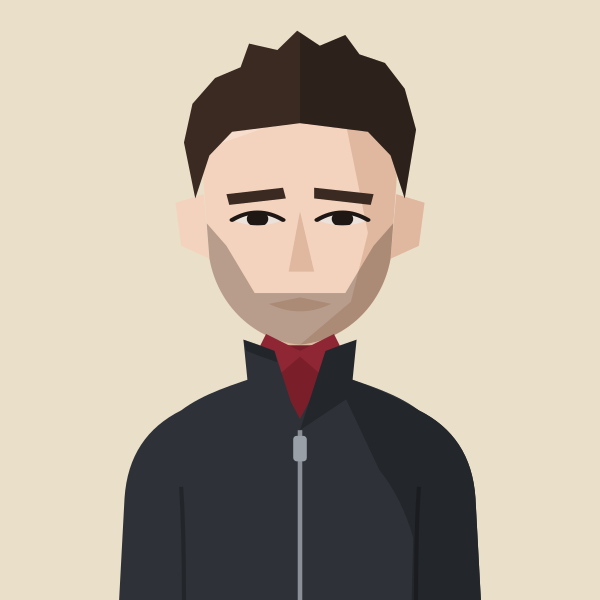
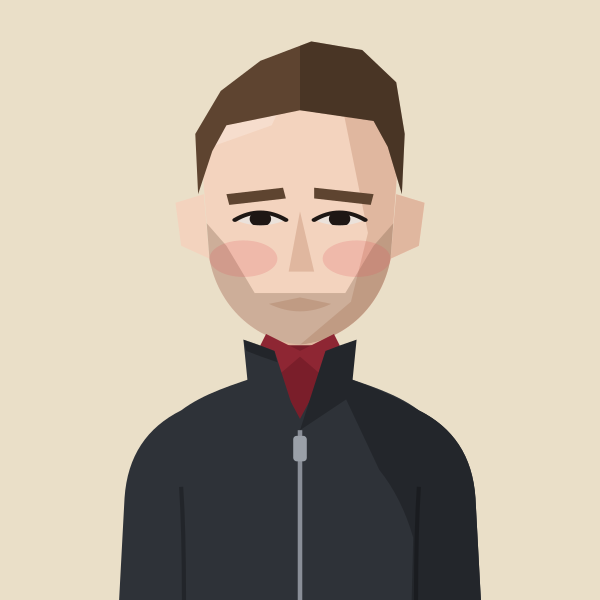
Redraw Steve Gardner: mid-brown quiff, light stubble, rosy, dark half-zip
Claude-Session: https://claude.ai/code/session_01MgmDWhFqnSSnP4iBLKXUZC

Changed region(s): [[0.3, 0.03, 0.69, 0.33], [0.51, 0.3, 0.66, 0.48], [0.33, 0.3, 0.48, 0.48]]

diff --git a/files/index.html b/files/index.html
@@ -686,7 +686,7 @@ return m;})();
 const portraitFile=(name,club)=>{const k=normalizeNameForCompare(name||'').replace(/\s*\(([^)]*)\)$/,(m,c)=>CLUBS[c.toUpperCase()]?'':m);const a=PORTRAITS[k];if(a&&a.club===club)return a.file;const b=PORTRAITS[k+'@'+club];return b?b.file:null;};
 // Athlete header figure: superstar portrait if we have one, else a grey runner in the club vest, else the plain vest icon
 // Changes whenever any portrait changes (set by tools/build_og.py), so browsers fetch fresh images instead of old cached ones
-const PORTRAIT_V='ee15dd43';const PORTRAIT_WOMEN='abbey-brooke,abbie-bulbulian,adele-prince,aimee-hargreaves,aisling-ahern,alex-brown,alex-gandee,alex-marginean,alex-miller,alexa-parker,alexandra-barbour,alice-braham,alice-bridger-morales,alice-crane,alice-martin,alice-reed,alice-smith,alison-purnell,alison-thomson,amy-clements,andrea-barber,anika-schwarze-chintapatla,anna-garnier,anna-garnier-hw,anna-sharp,annabel-hobday,annabelle-hadlow,anne-hegvold,annmarie-seymour,ava-mcandie,becky-briggs,bethan-goddard,bethanie-murray,bethany-brown,betsy-griffiths,billie-mcclosky,camilla-barden,caoimhe-nic-fhogartaigh,carolyne-baxter,catherine-bryson,catherine-eastham,catherine-kandie,cathy-ansell,charlotte-griffiths,chloe-beckett,chloe-tighe,chrissie-wellington,claire-grima,clara-pettit,clare-elms,clare-pauzers,dillan-quinn,dorchie-cockerell,eilidh-hide,elinor-skinner,eliza-grant,elizabeth-apsley,elizabeth-stavreski,ella-fennelly,ella-king-powrie,ella-may-hards,ella-newton,ellie-brown,ellie-freeden,eloise-bull,emilie-arnoux,emily-barrett,emily-bradley,emily-lowery,emily-robbins,emma-gordon,emma-howsham,emma-lord,emma-rowland,estle-viljoen,evie-warren,felicity-cole,felicity-harrison,felicity-hayward,fi-maddocks,fiona-de-mauny,florence-wiggins,gabby-collison,gabriel-reynolds,gemma-newport,genevieve-blanch,georgia-curry,georgie-bruinvels,georgie-fenn,georgie-furze,georgie-grgec,gina-galbraith,grace-leyland,grace-richardson,hannah-edwards,hannah-english,heather-statham,heather-statham-cc,helena-corbin,helena-keenan,holly-nixon,holly-pan,imogen-mackie,imogen-wolsey,iona-cousland,isabel-bradley,isabel-brinsden,isabelle-pickett,isobel-hodder,jennifer-nandi,jennifer-smith,jess-reed,jess-saunders,jess-winfield,jessica-davies,jessica-lowe,jodie-favell,josephine-rhodes,julia-bleasdale,julia-wedmore,juliet-hodder,jurgita-levertaviciute,justine-lynch,karen-fenner,karen-xiang,karina-box,kate-axford,kate-williams,kathy-sharpe,katie-ellen-french,katie-good,katie-snowden,katy-hedgethorne,kitty-shepherd-cross,kristina-popadich,lara-bromilow,lara-mangan,laura-goodson,laura-miles,lauren-major,lea-adamson,lily-newton,lisa-bailey,lisa-thomas,lisa-thomas-hw,lizzie-goldie-scot,louise-cooper,lucy-jones,lucy-macalister,lucy-peters,lydia-blackmore,lydia-gallyer-barnett,maddie-mastrolonardo,maddy-whitman,maeve-kenny,margaret-coogan,martina-conner,mary-james,mary-setyabule,matilde-lomba,megan-gildea,mhairi-hall,mimi-corden-lloyd,molly-oconnor,molly-smith,monika-gajek,naomi-lenane,natalie-beadle,natalie-seymour,natasha-lodge,niamh-thompson,nicky-hayes,nicola-cartlidge,nicola-douglas,nikki-sturzaker,olivia-papaioannou,olivia-stillman,orna-mcginley,pamela-mchutchon,patricia-walker,patrizia-gnoato,penny-oliver,rachel-brown,rebecca-barrow,rebekah-edgar,ruby-carter,ruby-whyte-wilding,ruby-woolfe,sally-urquhart,sam-whiting,samantha-munday,sarah-astin,sarah-dewhirst,sarah-grover,sarah-hanley,sarah-holt,sarah-murphy,sarah-palmer,sarah-palmer-ran,sarah-riceman,sarah-young,saron-haileselase,serena-carter,sophie-cowper,sophie-harris,sophie-hicks,sophie-tooley,stacey-ward,steph-hewitt,steph-mccall,steph-mccall-cc,steph-mccall-slh,steph-mitchell,suzanne-swaine,suze-spalding,suzie-harvey,suzy-whatmough,teresa-murphy,tilly-heaton,tilly-heaton-bel,vic-cartwright,vicky-clarke,victoria-barthelmess,victoria-buck,vikki-filsell,zoe-macdonald,zuzana-nemeckova';const PORTRAIT_MEN='aaron-wilson,abdulla-elsadig,adam-leane,adrian-major,adrien-royer,alan-black,alan-mead,alex-brecker,alex-bruce-littlewood,alex-gutteridge,alex-harris,alex-howard,alex-janiaud,alex-lee,alex-lennon,alex-mills,alex-milne,alex-morales,alex-robinson,alex-yee,alexander-marks,amittai-ben-israel,andrew-cumine,andrew-green,andrew-penney,andrew-perfect,andrew-simms,andrew-warburton,andrius-jaksevicius,andy-coley-maud,andy-coley-maud-cc,andy-fyfe,andy-north,andy-paton,andy-weir,angus-butler,angus-lamb,anisse-ismaili,arlo-ludewick,arne-dumez,arthur-peel,ashley-goncalves,barnaby-day,barry-collins,barry-sawyer,ben-clarke,ben-harding,ben-hurley,ben-ireland,ben-millar,ben-paviour,ben-pearce,ben-racle,ben-revill,ben-reynolds,ben-scott,ben-toomer,benedict-whitby,benjamin-hilson,bernie-ford,bill-kerr,bill-weller,bill-weller-wal,bob-harrison,bob-holt,bob-lunnon,bob-rayman,bob-smith,bradley-courtney-pinn,brandon-dewar,brian-gorman,brian-wilder,caleb-hathaway,callum-stewart,cameron-dockerill,cameron-reilly,carl-delaney,charles-herrington,charlie-dabbs,charlie-dickinson,charlie-eastaugh,charlie-manning,charlie-pickett,charlie-rogers,charlie-sandison,charlie-walker,charlie-wyllie,che-compton,chris-busaileh,chris-busaileh-hhh,chris-greenwood,chris-keavey,chris-moss,chris-steer,chris-threadgold,chris-warren,christian-lee,christopher-parker,clive-gilby,clive-shippen,colin-high,colin-pearson,conall-mcnally,conall-whelan,craig-ruddy,dame-dibaba,dan-cliffe,dan-pettitt,daniel-shaw,daniel-wolff,dave-beard,dave-beaver,dave-glassborow,dave-holt,dave-taylor,david-anderson,david-bowers,david-grima,david-north,david-ogden,david-symons,david-walsh,david-williams,deron-fagan,dick-piotrowski,dimos-evangelidis,dominic-kiralyfi,don-anderson,don-faircloth,don-maclean,doug-maughan,duncan-rimmer,dylan-evans,dylan-mitchard,ed-brewer,ed-catmur,ed-gibson,ed-mallett,eddie-herridge,eddie-jodrell,eddie-rolls,edward-chuck,eoin-brady,eoin-molloy,ethan-mccolgan,falilou-kebe,findlay-dyer,finn-johnson,fintan-pearce,frank-tickner,frank-ward,fred-paget,fred-slemeck,freddie-hessian,garret-lee,gary-ribbons,gary-ribbons-ee,gary-staines,gavin-eccles,geoff-biscoe,geoff-jerwood,geoff-north,george-cotton,george-gathercole,george-jackson,george-loxton,george-mallett,george-ogden,gerry-adams,gerry-north,glen-keegan,gordon-pearce,graham-macky,harrison-hayman,harry-guttridge,hector-revill,henry-hart,henry-silverstein,hugo-hewitt,ian-acreman,ian-crowe-wright,ian-ellwood,ian-harkness,indy-barnes,isaac-lutaya,isaac-parker,jack-brotchie,jack-dickson,jack-dormer,jack-hampshire,jack-harrison,jack-hobden,jack-kavanagh,jack-millar,jack-ramm,jack-woods,jacob-brockmann,jake-simmonds,james-bartram,james-blackwood,james-bowler,james-estall,james-ewing,james-fox,james-hancock,james-harvey,james-hoad,james-kelly,james-mcmullan,james-murray,james-nutt,james-preston,james-roberts,james-stockings,james-ward,james-wootton,jamie-crowe,jamie-parkinson,jared-martin,jean-paul-wright,jeff-cunningham,jeremy-dempsey,jermaine-mays,jerry-watson,jim-allchin,jim-rimmer,joe-english,joe-hartley,john-baker,john-bicourt,john-bromley,john-davies,john-dear,john-foss,john-foxall,john-gilbert,john-gladwin,john-hutchins,john-kendall,john-kimaiyo,john-lee,john-lethbridge,john-mather,john-moore,john-roberts,john-sanderson,john-stow,john-sullivan,john-thresher,jon-hobbs,jon-pepper,jon-pepper-slh,jon-phillips,jon-solly,jonathan-cocker,jonathan-collier,jonathan-cornish,jonathan-ratcliffe,jonathan-tipper,jonathon-blackledge,jonny-neville,jonny-scott,jordan-weaver,josh-mitchell,josh-snow,josh-trigwell,jules-gevers,junior-galley,justin-chaston,justin-reid,kassa-tadesse,keith-newton,kevin-nash,kevin-quinn,kevin-sturman,kieran-barnes,kieran-white,knut-hegvold,knut-hegvold-bel,larry-ryan,lawrence-avery,lee-lintern,lewis-lloyd,liam-burthem,lionel-mann,lloyd-kempson,luke-caldwell,mack-downie,malachi-byansi,marcello-bizio,marcelo-fortes,marco-mazzotta,mark-anderson,mark-miles,mark-sinclair,mark-tennyson,mark-waller,martin-dent,martin-lake,martin-lewington,martin-shore,mathew-speed,matt-chaston,matt-jones,matt-wood,matthew-edgar,matthew-houchell,matthew-thomas,matthew-varley,max-bloor,max-heyden,max-milarvie,max-nicholls,michael-baker,michael-mccarthy,mick-woods,mike-beevor,mike-boyle,mike-cummings,mike-farmery,mike-fuller,mike-hayes,mike-kortenray,mike-nouch,mohammed-ismail,monty-hudson,morgan-roberts,nathan-visick,neil-chisholm,neil-phillips,neil-speaight,neil-wilson,nic-lukies,nick-acfield,nick-altmann,nick-bester,nick-bester-hhh,nick-buckle,nick-bundle,nick-goolab,nick-lightfoot,nick-morris,nick-torry,noah-fernandez,norman-stairs,oli-carrington,oliver-carrington,oliver-fox,oliver-reynolds,oliver-young,ollie-foote,ollie-garrod,olly-buck,owen-hind,paddy-roddy,pancho-panchev,paskar-owor,pat-newell,patrick-mcdougall,paul-calver,paul-cheetham,paul-freary,paul-magner,paul-pollock,pete-carton,pete-gardner,peter-clarke,peter-giles,peter-giles-thh,peter-lighting,phil-carstairs,phil-sanders,phil-sesemann,phil-swinburn,phil-wicks,phil-woodford-smith,raj-paranandi,ralph-street,ranjit-bhatia,ray-foley,reece-edwards,rhys-boorman,rian-mccawley,richard-ashe,richard-giles,richard-henderson,richard-langley,richard-mcdowell,richard-ollington,richard-partridge,richard-sun,richard-ward,rob-armstrong,rob-kelly,rob-tuer,robert-elphick,robert-laing,robert-norville,robert-peacock,robert-sesemann,robin-boon,robin-hudson,roger-alsop,roger-alsop-bel,ron-clark,ron-linstead,ronan-tanguy,rory-mcmahon,rory-orsborn,ross-christie,rowan-board,rowan-crichton,russell-dessaix-chin,ryan-hickey,ryan-mccallister,sam-bramwell,sam-charlton,sam-gebreselassie,sam-peters,sam-sommerville,sam-tyas,samuel-dames,samuel-wilcock,sean-cordon,sebastian-anthony,simon-baines,simon-coombes,simon-coppard,simon-holmes,simon-rayner,simon-rayner-hw,simon-wade,simon-wade-hhh,simon-waterhouse,simon-williams,simon-wurr,sonny-nicoll,spencer-barden,stephen-mcleod,stephen-sharp,steve-gardner,steve-jones,steve-smythe,steve-smythe-hhh,stuart-beaney,stuart-major,stuart-major-thh,stuart-mccallum,stuart-paton,terry-booth,thomas-dugre,thomas-gandee,thomas-gardner,thomas-renshaw,tim-alexander,tim-eglen,tim-lawrence,tim-watson,toby-cooke,toby-fletcher,tom-austin,tom-cheetham,tom-conlon,tom-davies,tom-gifford,tom-jervis,tom-lole,tom-south,tom-thornley,tommy-taylor,tony-binda,tony-fairclough,tony-harran,trevor-hart,valdis-pauzers,valentin-rigori,vic-maughan,will-cockerell,will-lewis,will-marshall,will-scott,will-stockley,william-gardner,yacin-yusuf,zach-nolan';
+const PORTRAIT_V='62f463a3';const PORTRAIT_WOMEN='abbey-brooke,abbie-bulbulian,adele-prince,aimee-hargreaves,aisling-ahern,alex-brown,alex-gandee,alex-marginean,alex-miller,alexa-parker,alexandra-barbour,alice-braham,alice-bridger-morales,alice-crane,alice-martin,alice-reed,alice-smith,alison-purnell,alison-thomson,amy-clements,andrea-barber,anika-schwarze-chintapatla,anna-garnier,anna-garnier-hw,anna-sharp,annabel-hobday,annabelle-hadlow,anne-hegvold,annmarie-seymour,ava-mcandie,becky-briggs,bethan-goddard,bethanie-murray,bethany-brown,betsy-griffiths,billie-mcclosky,camilla-barden,caoimhe-nic-fhogartaigh,carolyne-baxter,catherine-bryson,catherine-eastham,catherine-kandie,cathy-ansell,charlotte-griffiths,chloe-beckett,chloe-tighe,chrissie-wellington,claire-grima,clara-pettit,clare-elms,clare-pauzers,dillan-quinn,dorchie-cockerell,eilidh-hide,elinor-skinner,eliza-grant,elizabeth-apsley,elizabeth-stavreski,ella-fennelly,ella-king-powrie,ella-may-hards,ella-newton,ellie-brown,ellie-freeden,eloise-bull,emilie-arnoux,emily-barrett,emily-bradley,emily-lowery,emily-robbins,emma-gordon,emma-howsham,emma-lord,emma-rowland,estle-viljoen,evie-warren,felicity-cole,felicity-harrison,felicity-hayward,fi-maddocks,fiona-de-mauny,florence-wiggins,gabby-collison,gabriel-reynolds,gemma-newport,genevieve-blanch,georgia-curry,georgie-bruinvels,georgie-fenn,georgie-furze,georgie-grgec,gina-galbraith,grace-leyland,grace-richardson,hannah-edwards,hannah-english,heather-statham,heather-statham-cc,helena-corbin,helena-keenan,holly-nixon,holly-pan,imogen-mackie,imogen-wolsey,iona-cousland,isabel-bradley,isabel-brinsden,isabelle-pickett,isobel-hodder,jennifer-nandi,jennifer-smith,jess-reed,jess-saunders,jess-winfield,jessica-davies,jessica-lowe,jodie-favell,josephine-rhodes,julia-bleasdale,julia-wedmore,juliet-hodder,jurgita-levertaviciute,justine-lynch,karen-fenner,karen-xiang,karina-box,kate-axford,kate-williams,kathy-sharpe,katie-ellen-french,katie-good,katie-snowden,katy-hedgethorne,kitty-shepherd-cross,kristina-popadich,lara-bromilow,lara-mangan,laura-goodson,laura-miles,lauren-major,lea-adamson,lily-newton,lisa-bailey,lisa-thomas,lisa-thomas-hw,lizzie-goldie-scot,louise-cooper,lucy-jones,lucy-macalister,lucy-peters,lydia-blackmore,lydia-gallyer-barnett,maddie-mastrolonardo,maddy-whitman,maeve-kenny,margaret-coogan,martina-conner,mary-james,mary-setyabule,matilde-lomba,megan-gildea,mhairi-hall,mimi-corden-lloyd,molly-oconnor,molly-smith,monika-gajek,naomi-lenane,natalie-beadle,natalie-seymour,natasha-lodge,niamh-thompson,nicky-hayes,nicola-cartlidge,nicola-douglas,nikki-sturzaker,olivia-papaioannou,olivia-stillman,orna-mcginley,pamela-mchutchon,patricia-walker,patrizia-gnoato,penny-oliver,rachel-brown,rebecca-barrow,rebekah-edgar,ruby-carter,ruby-whyte-wilding,ruby-woolfe,sally-urquhart,sam-whiting,samantha-munday,sarah-astin,sarah-dewhirst,sarah-grover,sarah-hanley,sarah-holt,sarah-murphy,sarah-palmer,sarah-palmer-ran,sarah-riceman,sarah-young,saron-haileselase,serena-carter,sophie-cowper,sophie-harris,sophie-hicks,sophie-tooley,stacey-ward,steph-hewitt,steph-mccall,steph-mccall-cc,steph-mccall-slh,steph-mitchell,suzanne-swaine,suze-spalding,suzie-harvey,suzy-whatmough,teresa-murphy,tilly-heaton,tilly-heaton-bel,vic-cartwright,vicky-clarke,victoria-barthelmess,victoria-buck,vikki-filsell,zoe-macdonald,zuzana-nemeckova';const PORTRAIT_MEN='aaron-wilson,abdulla-elsadig,adam-leane,adrian-major,adrien-royer,alan-black,alan-mead,alex-brecker,alex-bruce-littlewood,alex-gutteridge,alex-harris,alex-howard,alex-janiaud,alex-lee,alex-lennon,alex-mills,alex-milne,alex-morales,alex-robinson,alex-yee,alexander-marks,amittai-ben-israel,andrew-cumine,andrew-green,andrew-penney,andrew-perfect,andrew-simms,andrew-warburton,andrius-jaksevicius,andy-coley-maud,andy-coley-maud-cc,andy-fyfe,andy-north,andy-paton,andy-weir,angus-butler,angus-lamb,anisse-ismaili,arlo-ludewick,arne-dumez,arthur-peel,ashley-goncalves,barnaby-day,barry-collins,barry-sawyer,ben-clarke,ben-harding,ben-hurley,ben-ireland,ben-millar,ben-paviour,ben-pearce,ben-racle,ben-revill,ben-reynolds,ben-scott,ben-toomer,benedict-whitby,benjamin-hilson,bernie-ford,bill-kerr,bill-weller,bill-weller-wal,bob-harrison,bob-holt,bob-lunnon,bob-rayman,bob-smith,bradley-courtney-pinn,brandon-dewar,brian-gorman,brian-wilder,caleb-hathaway,callum-stewart,cameron-dockerill,cameron-reilly,carl-delaney,charles-herrington,charlie-dabbs,charlie-dickinson,charlie-eastaugh,charlie-manning,charlie-pickett,charlie-rogers,charlie-sandison,charlie-walker,charlie-wyllie,che-compton,chris-busaileh,chris-busaileh-hhh,chris-greenwood,chris-keavey,chris-moss,chris-steer,chris-threadgold,chris-warren,christian-lee,christopher-parker,clive-gilby,clive-shippen,colin-high,colin-pearson,conall-mcnally,conall-whelan,craig-ruddy,dame-dibaba,dan-cliffe,dan-pettitt,daniel-shaw,daniel-wolff,dave-beard,dave-beaver,dave-glassborow,dave-holt,dave-taylor,david-anderson,david-bowers,david-grima,david-north,david-ogden,david-symons,david-walsh,david-williams,deron-fagan,dick-piotrowski,dimos-evangelidis,dominic-kiralyfi,don-anderson,don-faircloth,don-maclean,doug-maughan,duncan-rimmer,dylan-evans,dylan-mitchard,ed-brewer,ed-catmur,ed-gibson,ed-mallett,eddie-herridge,eddie-jodrell,eddie-rolls,edward-chuck,eoin-brady,eoin-molloy,ethan-mccolgan,falilou-kebe,findlay-dyer,finn-johnson,fintan-pearce,frank-tickner,frank-ward,fred-paget,fred-slemeck,freddie-hessian,garret-lee,gary-ribbons,gary-ribbons-ee,gary-staines,gavin-eccles,geoff-biscoe,geoff-jerwood,geoff-north,george-cotton,george-gathercole,george-jackson,george-loxton,george-mallett,george-ogden,gerry-adams,gerry-north,glen-keegan,gordon-pearce,graham-macky,harrison-hayman,harry-guttridge,hector-revill,henry-hart,henry-silverstein,hugo-hewitt,ian-acreman,ian-crowe-wright,ian-ellwood,ian-harkness,indy-barnes,isaac-lutaya,isaac-parker,jack-brotchie,jack-dickson,jack-dormer,jack-hampshire,jack-harrison,jack-hobden,jack-kavanagh,jack-millar,jack-ramm,jack-woods,jacob-brockmann,jake-simmonds,james-bartram,james-blackwood,james-bowler,james-estall,james-ewing,james-fox,james-hancock,james-harvey,james-hoad,james-kelly,james-mcmullan,james-murray,james-nutt,james-preston,james-roberts,james-stockings,james-ward,james-wootton,jamie-crowe,jamie-parkinson,jared-martin,jean-paul-wright,jeff-cunningham,jeremy-dempsey,jermaine-mays,jerry-watson,jim-allchin,jim-rimmer,joe-english,joe-hartley,john-baker,john-bicourt,john-bromley,john-davies,john-dear,john-foss,john-foxall,john-gilbert,john-gladwin,john-hutchins,john-kendall,john-kimaiyo,john-lee,john-lethbridge,john-mather,john-moore,john-roberts,john-sanderson,john-stow,john-sullivan,john-thresher,jon-hobbs,jon-pepper,jon-pepper-slh,jon-phillips,jon-solly,jonathan-cocker,jonathan-collier,jonathan-cornish,jonathan-ratcliffe,jonathan-tipper,jonathon-blackledge,jonny-neville,jonny-scott,jordan-weaver,josh-mitchell,josh-snow,josh-trigwell,jules-gevers,junior-galley,justin-chaston,justin-reid,kassa-tadesse,keith-newton,kevin-nash,kevin-quinn,kevin-sturman,kieran-barnes,kieran-white,knut-hegvold,knut-hegvold-bel,larry-ryan,lawrence-avery,lee-lintern,lewis-lloyd,liam-burthem,lionel-mann,lloyd-kempson,luke-caldwell,mack-downie,malachi-byansi,marcello-bizio,marcelo-fortes,marco-mazzotta,mark-anderson,mark-miles,mark-sinclair,mark-tennyson,mark-waller,martin-dent,martin-lake,martin-lewington,martin-shore,mathew-speed,matt-chaston,matt-jones,matt-wood,matthew-edgar,matthew-houchell,matthew-thomas,matthew-varley,max-bloor,max-heyden,max-milarvie,max-nicholls,michael-baker,michael-mccarthy,mick-woods,mike-beevor,mike-boyle,mike-cummings,mike-farmery,mike-fuller,mike-hayes,mike-kortenray,mike-nouch,mohammed-ismail,monty-hudson,morgan-roberts,nathan-visick,neil-chisholm,neil-phillips,neil-speaight,neil-wilson,nic-lukies,nick-acfield,nick-altmann,nick-bester,nick-bester-hhh,nick-buckle,nick-bundle,nick-goolab,nick-lightfoot,nick-morris,nick-torry,noah-fernandez,norman-stairs,oli-carrington,oliver-carrington,oliver-fox,oliver-reynolds,oliver-young,ollie-foote,ollie-garrod,olly-buck,owen-hind,paddy-roddy,pancho-panchev,paskar-owor,pat-newell,patrick-mcdougall,paul-calver,paul-cheetham,paul-freary,paul-magner,paul-pollock,pete-carton,pete-gardner,peter-clarke,peter-giles,peter-giles-thh,peter-lighting,phil-carstairs,phil-sanders,phil-sesemann,phil-swinburn,phil-wicks,phil-woodford-smith,raj-paranandi,ralph-street,ranjit-bhatia,ray-foley,reece-edwards,rhys-boorman,rian-mccawley,richard-ashe,richard-giles,richard-henderson,richard-langley,richard-mcdowell,richard-ollington,richard-partridge,richard-sun,richard-ward,rob-armstrong,rob-kelly,rob-tuer,robert-elphick,robert-laing,robert-norville,robert-peacock,robert-sesemann,robin-boon,robin-hudson,roger-alsop,roger-alsop-bel,ron-clark,ron-linstead,ronan-tanguy,rory-mcmahon,rory-orsborn,ross-christie,rowan-board,rowan-crichton,russell-dessaix-chin,ryan-hickey,ryan-mccallister,sam-bramwell,sam-charlton,sam-gebreselassie,sam-peters,sam-sommerville,sam-tyas,samuel-dames,samuel-wilcock,sean-cordon,sebastian-anthony,simon-baines,simon-coombes,simon-coppard,simon-holmes,simon-rayner,simon-rayner-hw,simon-wade,simon-wade-hhh,simon-waterhouse,simon-williams,simon-wurr,sonny-nicoll,spencer-barden,stephen-mcleod,stephen-sharp,steve-gardner,steve-jones,steve-smythe,steve-smythe-hhh,stuart-beaney,stuart-major,stuart-major-thh,stuart-mccallum,stuart-paton,terry-booth,thomas-dugre,thomas-gandee,thomas-gardner,thomas-renshaw,tim-alexander,tim-eglen,tim-lawrence,tim-watson,toby-cooke,toby-fletcher,tom-austin,tom-cheetham,tom-conlon,tom-davies,tom-gifford,tom-jervis,tom-lole,tom-south,tom-thornley,tommy-taylor,tony-binda,tony-fairclough,tony-harran,trevor-hart,valdis-pauzers,valentin-rigori,vic-maughan,will-cockerell,will-lewis,will-marshall,will-scott,will-stockley,william-gardner,yacin-yusuf,zach-nolan';
 // Runners whose dog pops up on their own profile page (a -dog.svg version of their portrait)
 const PROFILE_DOGS=new Set(['john-sanderson','penny-oliver','james-hancock']);
 const AthletePortrait=({name,club,w,fill,onClick,blink})=>{const[failed,setFailed]=useState(false);const file=portraitFile(name,club);const src0=file?`/portraits/athletes/${file}.svg?v=${PORTRAIT_V}`:PORTRAIT_CLUBS.has(club)?`/portraits/clubs/${club.replace(/\//g,'').replace(/&/g,'and')}.svg?v=${PORTRAIT_V}`:null;const blinkSrc=useBlinkSrc(file?(PROFILE_DOGS.has(file)?`/portraits/athletes/${file}-dog.svg?v=${PORTRAIT_V}`:src0):null,!!blink);const src=blinkSrc||src0;if(!src||failed)return<div onClick={onClick} className={onClick?'cursor-pointer':''}><ClubShield club={club} size={w}/></div>;const h=Math.round(w*148/126),ih=Math.round(w*1.4);if(fill)return<div onClick={onClick} className="cursor-pointer" style={{alignSelf:'stretch',minHeight:h,aspectRatio:'126 / 148',flexShrink:0,position:'relative',borderRadius:4,overflow:'hidden'}}><img src={src} alt={file?`Portrait of ${name.replace(/\s*\([^)]*\)$/,'')}`:`Runner in ${CLUBS[club]?.name||club} vest`} style={{position:'absolute',top:0,left:0,display:'block',width:'100%',height:'auto'}} onError={()=>setFailed(true)}/></div>;return<div style={{width:w,height:h,borderRadius:4,overflow:'hidden',flexShrink:0}}><img src={src} alt={file?`Portrait of ${name.replace(/\s*\([^)]*\)$/,'')}`:`Runner in ${CLUBS[club]?.name||club} vest`} width={w} height={ih} style={{display:'block',width:w,height:ih}} onError={()=>setFailed(true)}/></div>;};

diff --git a/tools/gen_portraits.py b/tools/gen_portraits.py
@@ -634,7 +634,6 @@ save("charlie-eastaugh", figure("H/W", skin=1, hair="crop", hair_colour="light b
 save("oli-carrington", figure("H/W", skin=1, hair="tousled", hair_colour="mid brown", facial="shortbeard", facial_colour="mid brown"))
 save("jonathan-cornish", figure("H/W", skin=1, hair="tousled", hair_colour="#6E5A44"))
 save("gerry-north", figure("BEL", skin=1, hair="quiff", hair_colour="dark brown"))
-save("steve-gardner", figure("BEL", skin=1, hair="tousled", hair_colour="#3A2A22", facial="stubble", jacket=("#2E3238", "#23262B", None)))
 save("alex-yee", figure("KEN", skin=2, hair="quiff", hair_colour="#4A3022", medal="gold"))
 save("phil-wicks", figure("BEL", skin=1, hair="tousled", hair_colour="#5A3E2A", gaunt=True, temples=True))
 save("john-gilbert", figure("KEN", skin=1, hair="fringe", hair_colour="#5C3D28", facial="stubble"))
@@ -1579,4 +1578,6 @@ SITE_NAMES["penny-oliver-dog"] = "penny-oliver-dog"
 SITE_NAMES["james-hancock-dog"] = "james-hancock-dog"
 # Lionel Mann, redrawn Oct 2026: shaggy receding hair greying at the sides, bushy beard, downturned eyes
 save("lionel-mann", eyes(figure("BEL", skin=1, hair="shaggyrecede", hair_colour="dark brown", facial="bushybeard", greying="sides"), "downturned"))
+# Steve Gardner, redrawn Oct 2026: neat mid-brown quiff, light stubble, eyes slightly closer, rosy, dark half-zip
+save("steve-gardner", eyes(figure("BEL", skin=1, hair="quiff", hair_colour="#5E4430", facial="stubble", facial_colour="#7A5E48", rosy=True, jacket=("#2E3238", "#23262B", None)), None, -1))
 export_site()
